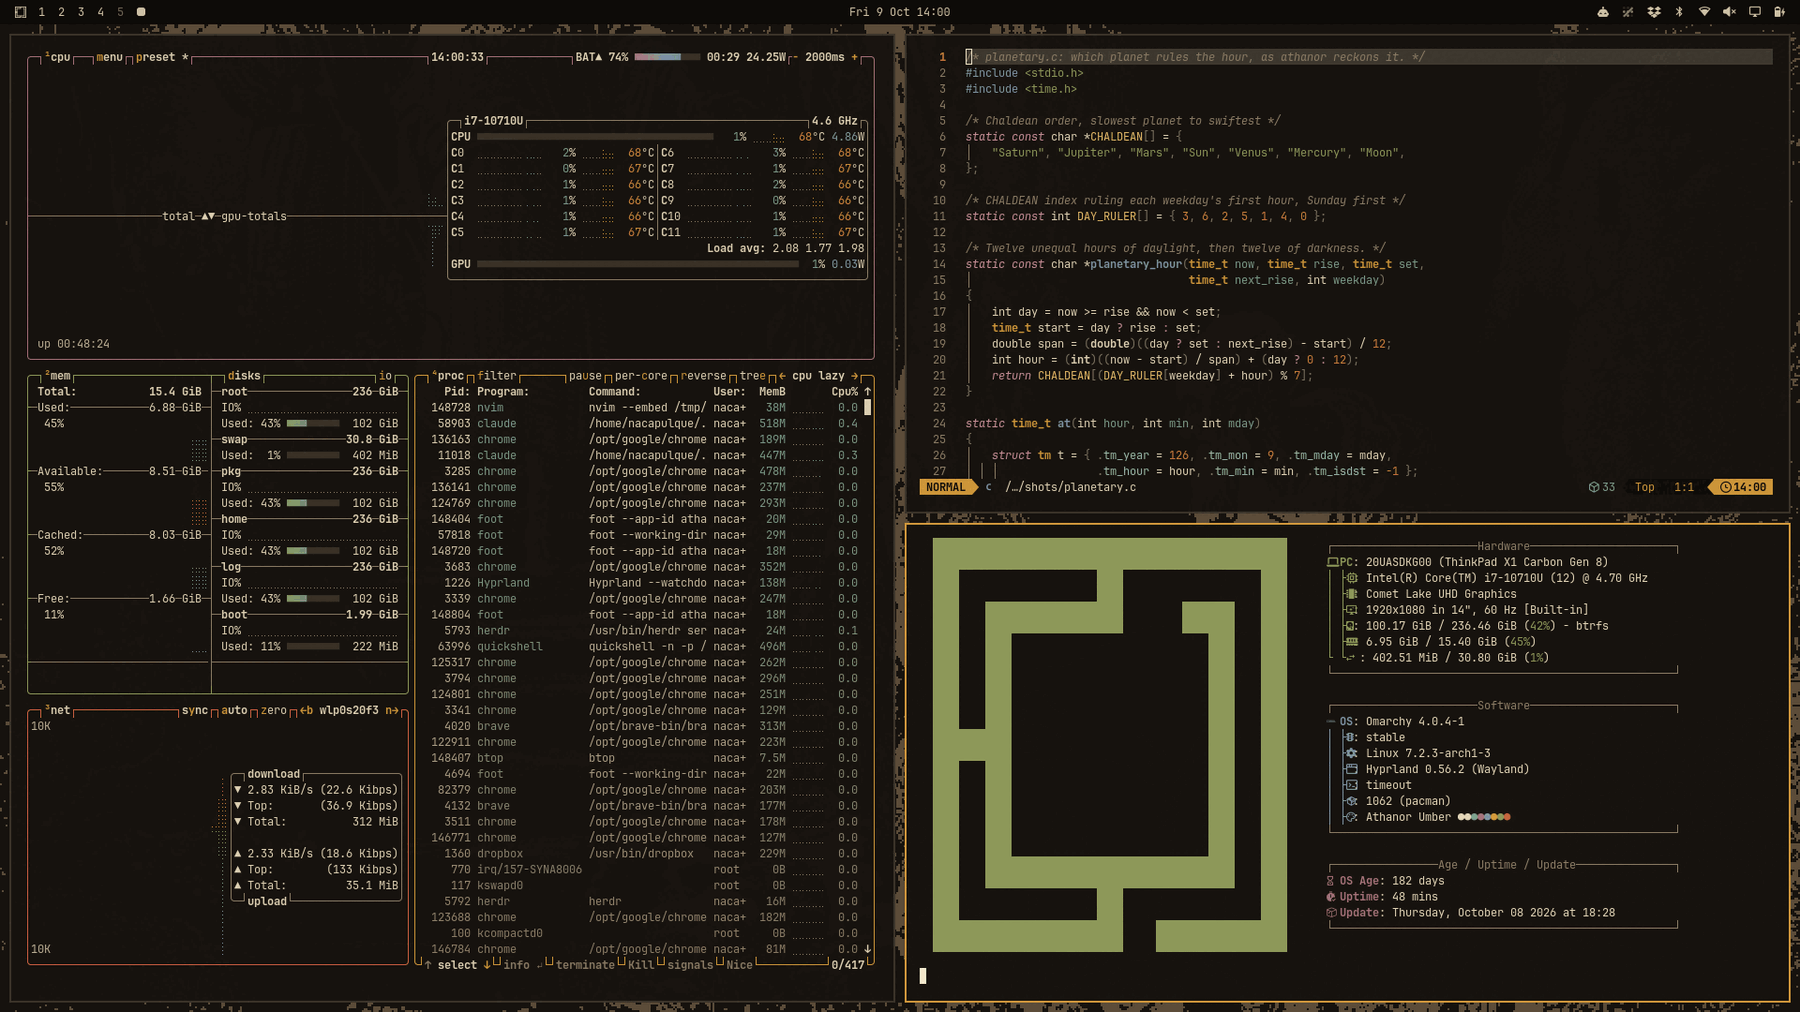
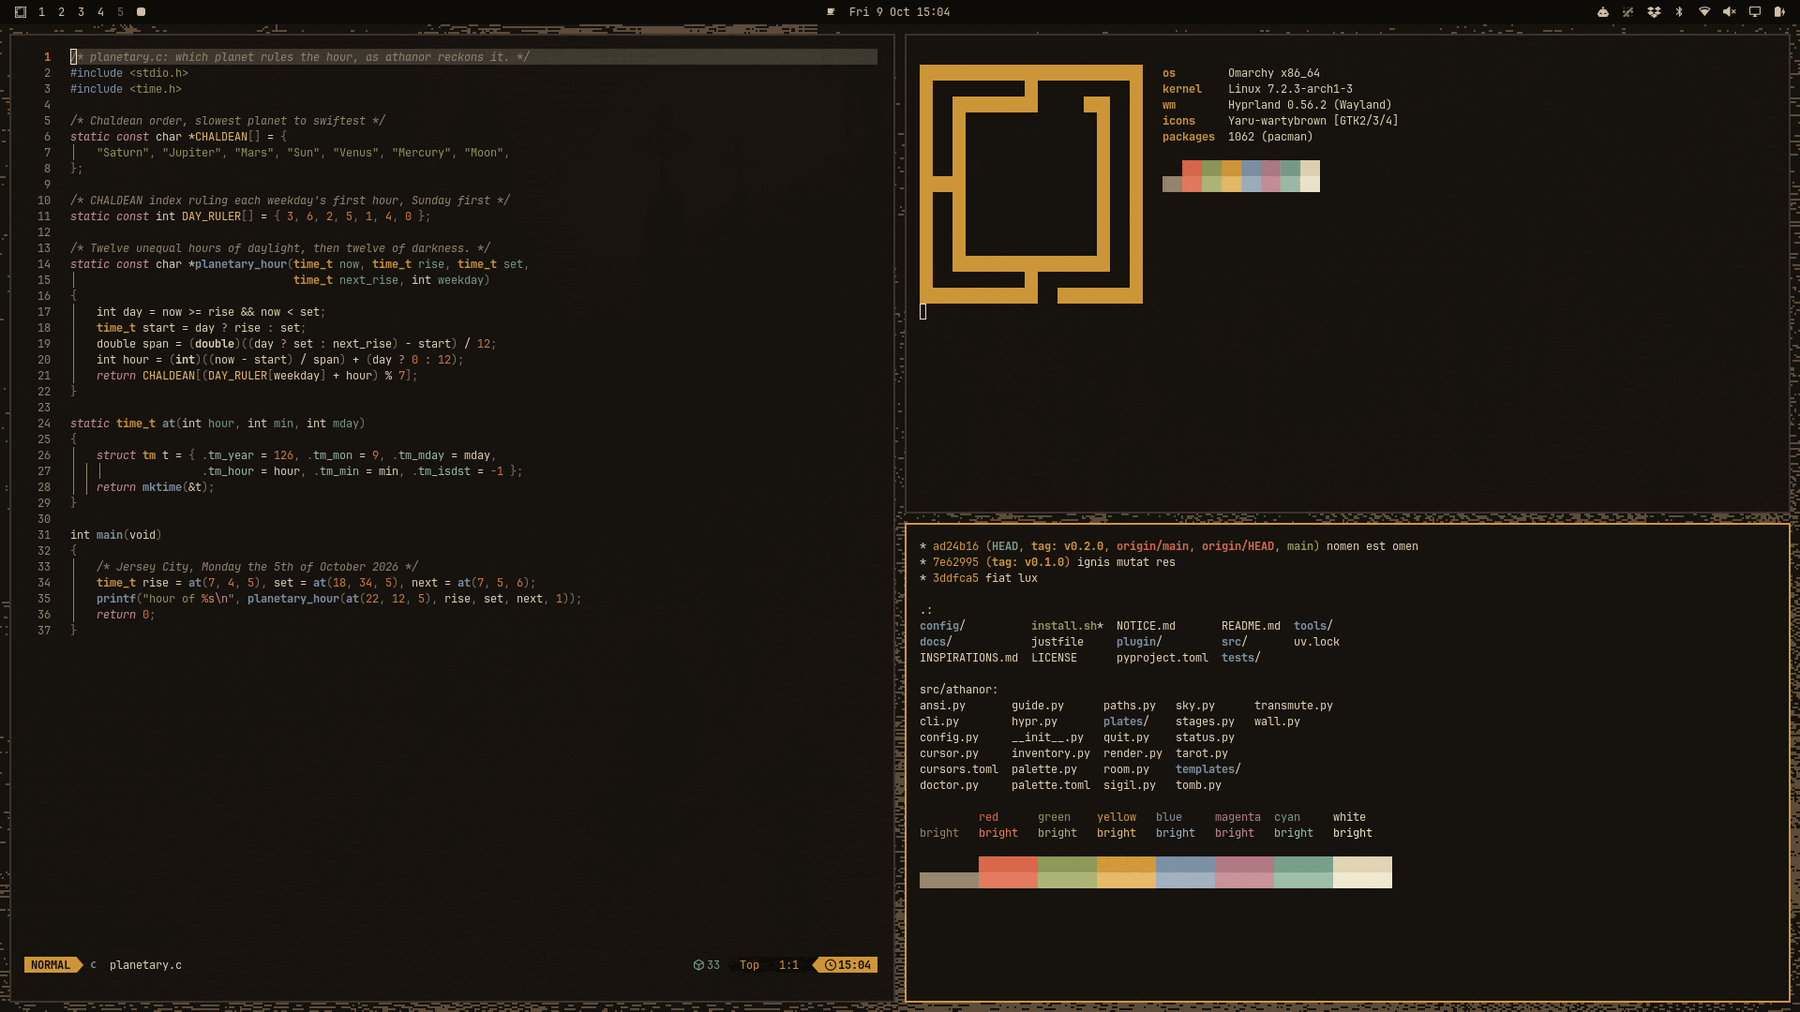
Take theme previews with a script that keeps personal details out
Phase 3 of docs/PLAN.md. The old previews showed the hostname, home paths in
btop's process list and the laptop model in fastfetch.

scripts/shoot-previews.sh applies each build as a temporary preview theme and
opens Neovim with Athanor's planetary.c, a software-only fastfetch, and
Athanor's git history with the palette, on an empty workspace 9 from a neutral
/tmp working directory. It OCRs the shot and refuses to save it if the
username, hostname, a home path or the DMI product name appears, aborts if a
pane lands outside workspace 9, and restores the workspace and theme on exit.
Two runs give identical window geometry.

fastfetch's logo and keys use ANSI yellow so they follow each theme rather
than its built-in lime.

Changed region(s): [[0.0, 0.0, 1.0, 1.0], [0.7156, 0.4289, 0.7467, 0.4595]]

diff --git a/athanor_omarchy/readme.py b/athanor_omarchy/readme.py
@@ -54,7 +54,7 @@ Athanor's four color schemes are the stages of the Magnum Opus. {label} is
 [Athanor {o_label}]({REPO.format(other)})
 (*{o_stage}*).
 
-![Athanor {label} desktop with btop, Neovim and fastfetch](preview.png)
+![Athanor {label} desktop with Neovim, fastfetch and the terminal palette](preview.png)
 
 ## Install
 

diff --git a/README.md b/README.md
@@ -56,6 +56,24 @@ To compare a build with a checkout by hand:
 python -m athanor_omarchy diff dist/athanor-umber ~/.config/omarchy/themes/athanor-umber
 ```
 
+## Previews
+
+```sh
+scripts/shoot-previews.sh            # umber and vellum
+scripts/shoot-previews.sh vellum
+```
+
+This takes each theme's `preview.png` on the real desktop. It applies the
+build as a temporary `athanor-<theme>-preview` theme and opens three panes on
+an empty workspace 9: Neovim with Athanor's `planetary.c`, a fastfetch that
+lists only software (`assets/preview/fastfetch.jsonc`), and Athanor's git
+history with the palette (`assets/preview/pane.sh`). It OCRs the shot and
+refuses to save it if your username, hostname, a home path or the hardware
+model shows up. It aborts if workspace 9 isn't empty or a pane lands
+elsewhere, and restores your workspace and theme when it exits. It needs a
+Hyprland Lua config, foot, nvim, fastfetch, grim, tesseract and ImageMagick 7,
+and takes over the screen for about 20 seconds per theme.
+
 ## Layout
 
 | Path | What |
@@ -67,7 +85,8 @@ python -m athanor_omarchy diff dist/athanor-umber ~/.config/omarchy/themes/athan
 | `athanor_omarchy/readme.py` | The themes' README and LICENSE |
 | `vendor/athanor` | Athanor, pinned as a submodule: the palette and the plates |
 | `assets/omarchy/` | Omarchy's unlock wordmark and logo wallpaper, recolored per theme |
-| `assets/previews/` | Desktop screenshots used as each theme's `preview.png` |
+| `assets/previews/` | Desktop screenshots used as each theme's `preview.png`, from `scripts/shoot-previews.sh` |
+| `assets/preview/` | What the preview panes run |
 
 The plan for this repo is in [docs/PLAN.md](docs/PLAN.md).
 

diff --git a/docs/PLAN.md b/docs/PLAN.md
@@ -120,9 +120,17 @@ Fix findings 2, 3 and 7 without touching the palette's identity.
 - Applied with `omarchy theme set`: the btop selected row is readable on Vellum, and a VS Code selection and current line are visible on both, checked with screenshots.
 - `hyprctl configerrors` is clean.
 
-## Phase 3: Reproducible, private previews (about 1 h)
+## Phase 3: Reproducible, private previews (about 1 h): done
 
 Fix finding 4.
+
+**Outcome.** `scripts/shoot-previews.sh` replaced both previews.
+- The OCR check covers `$USER`, the hostname, `/home/` and the DMI product name and version.
+- Two runs gave identical window geometry.
+- Changes from the scope:
+  - The third pane also lists Athanor's source tree with plain `ls`. Its history is only 3 commits, and `ls -l` would print the owner's username.
+  - fastfetch's logo and keys use ANSI yellow, so they follow each theme instead of fastfetch's built-in lime.
+  - fastfetch's shell and terminal lines were dropped: it reads both from its parent processes, which the script controls.
 
 **Scope**
 - `scripts/shoot-previews.sh`, the guarded version from this session:
